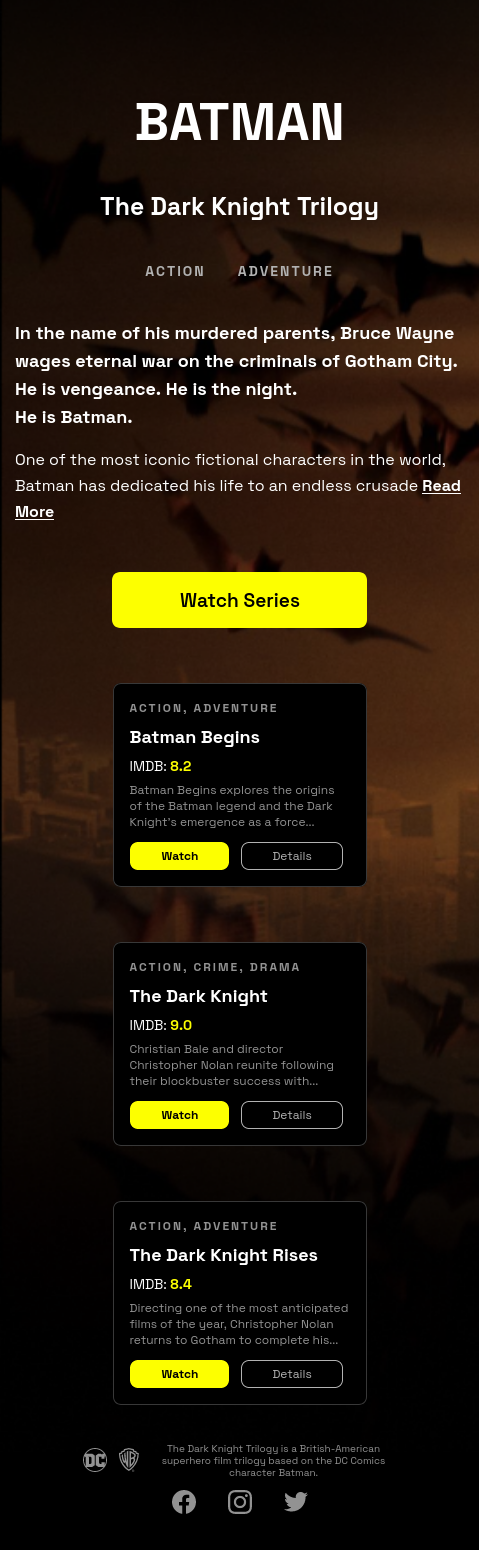
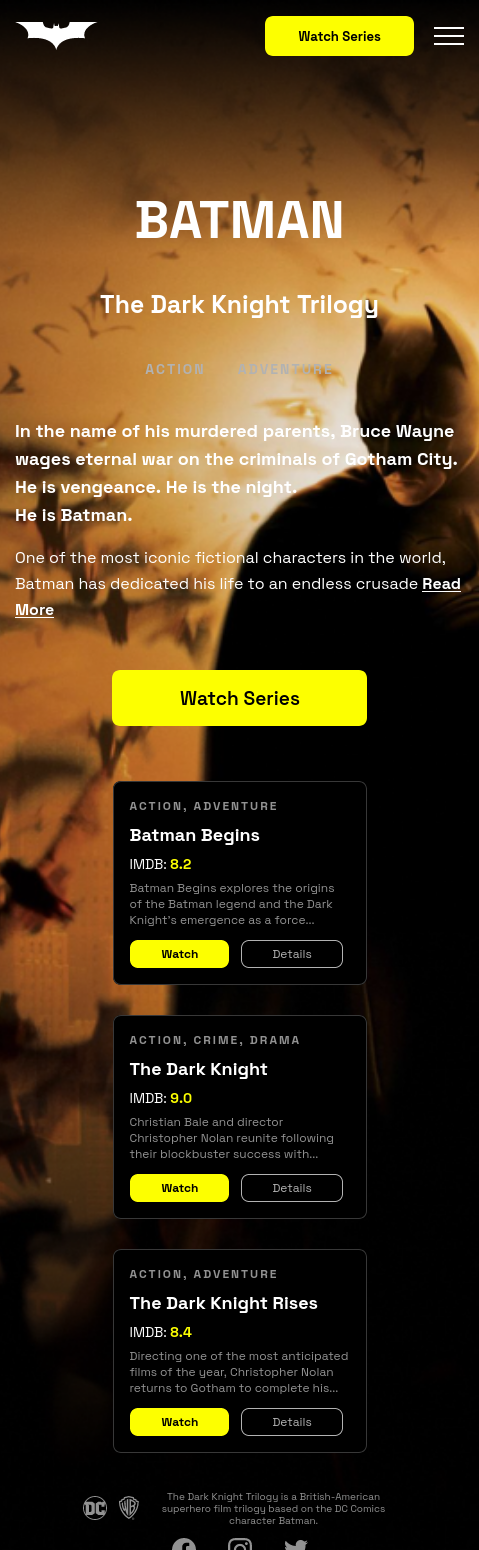
Small fixes

diff --git a/scss/style.scss b/scss/style.scss
@@ -7,7 +7,7 @@ body {
   font-family: "Space Grotesk";
   font-weight: 400;
   font-size: 18px;
-  background: url("../img/Background.png") no-repeat;
+  background: url("../img/Background.png") center no-repeat;
   background-size: cover;
   background-color: #000;
   color: #fff;
@@ -24,12 +24,12 @@ body {
   min-height: 100%;
 }
 [class*="__container"] {
-  max-width: 1410px;
+  max-width: 1270px;
   margin: 0px auto;
   padding: 0px 15px;
 }
 /* PC */
-@media (max-width: 1410px) {
+@media (max-width: 1240px) {
   [class*="__container"] {
     max-width: 970px;
   }
@@ -147,9 +147,8 @@ body {
 
   &__row {
     display: flex;
-    margin: 0px auto;
-    flex-wrap: wrap;
-    gap: 99px;
+    flex-wrap: nowrap;
+    gap: 30px;
     justify-content: center;
   }
 }
@@ -194,7 +193,7 @@ body {
     align-items: center;
   }
 }
-@media (max-width: 1410px) {
+@media (max-width: 1240px) {
   .menu {
     &__body {
       margin: 0 40px 0 0;
@@ -206,11 +205,15 @@ body {
   }
   .cards {
     &__row {
-      gap: 55px;
+      flex-wrap: wrap;
     }
   }
 }
 @media (max-width: 991.98px) {
+  body {
+    background-position: 60% 0;
+  }
+
   .header {
     &__logo {
       &._active {
@@ -334,7 +337,6 @@ body {
   }
 }
 @media (max-width: 479.98px) {
-
   .item-poster {
     img {
       display: none;

diff --git a/css/style.css b/css/style.css
@@ -257,7 +257,7 @@ body {
   font-family: "Space Grotesk";
   font-weight: 400;
   font-size: 18px;
-  background: url("../img/Background.png") no-repeat;
+  background: url("../img/Background.png") center no-repeat;
   background-size: cover;
   background-color: #000;
   color: #fff;
@@ -275,13 +275,13 @@ body._lock {
 }
 
 [class*=__container] {
-  max-width: 1410px;
+  max-width: 1270px;
   margin: 0px auto;
   padding: 0px 15px;
 }
 
 /* PC */
-@media (max-width: 1410px) {
+@media (max-width: 1240px) {
   [class*=__container] {
     max-width: 970px;
   }
@@ -418,9 +418,8 @@ body._lock {
 }
 .cards__row {
   display: flex;
-  margin: 0px auto;
-  flex-wrap: wrap;
-  gap: 99px;
+  flex-wrap: nowrap;
+  gap: 30px;
   justify-content: center;
 }
 
@@ -462,7 +461,7 @@ body._lock {
   align-items: center;
 }
 
-@media (max-width: 1410px) {
+@media (max-width: 1240px) {
   .menu__body {
     margin: 0 40px 0 0;
   }
@@ -470,10 +469,13 @@ body._lock {
     gap: 40px;
   }
   .cards__row {
-    gap: 55px;
+    flex-wrap: wrap;
   }
 }
 @media (max-width: 991.98px) {
+  body {
+    background-position: 60% 0;
+  }
   .header__logo._active::before {
     -webkit-transform: rotate(-45deg) translate(-5px, 6px);
     transform: rotate(-45deg) translate(-5px, 6px);

diff --git a/README.md b/README.md
@@ -1,9 +1,13 @@
 # Batman The Dark Night Trilogy layoyt demonstration
 
-## **Breakpoints (max-width)**
-- ### 1440px
+## Original layout width (1440px)
 
 ![](screenshots/1440px.png)
+
+## **Breakpoints (max-width)**
+- ### 1240px
+
+![](screenshots/1240px.png)
 
 - ### 991px
 
